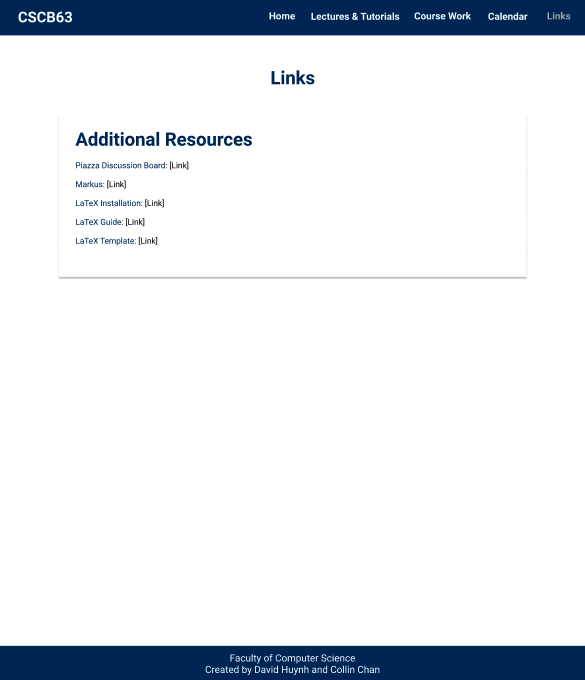
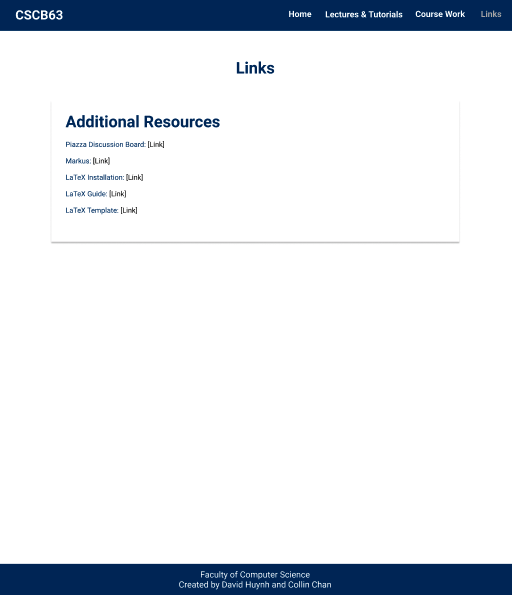
fixed all mockup files

diff --git a/src/static/css/mainlayout.css b/src/static/css/mainlayout.css
@@ -69,7 +69,8 @@ nav{
     padding: 15px 5px;
 }
 #headerNav li:hover, #headerNav li a:hover{
-    background-color: #2D3B45;
+    color: grey;
+    /*background-color: #2D3B45;*/
 }
 /**END HEADER**/
 
